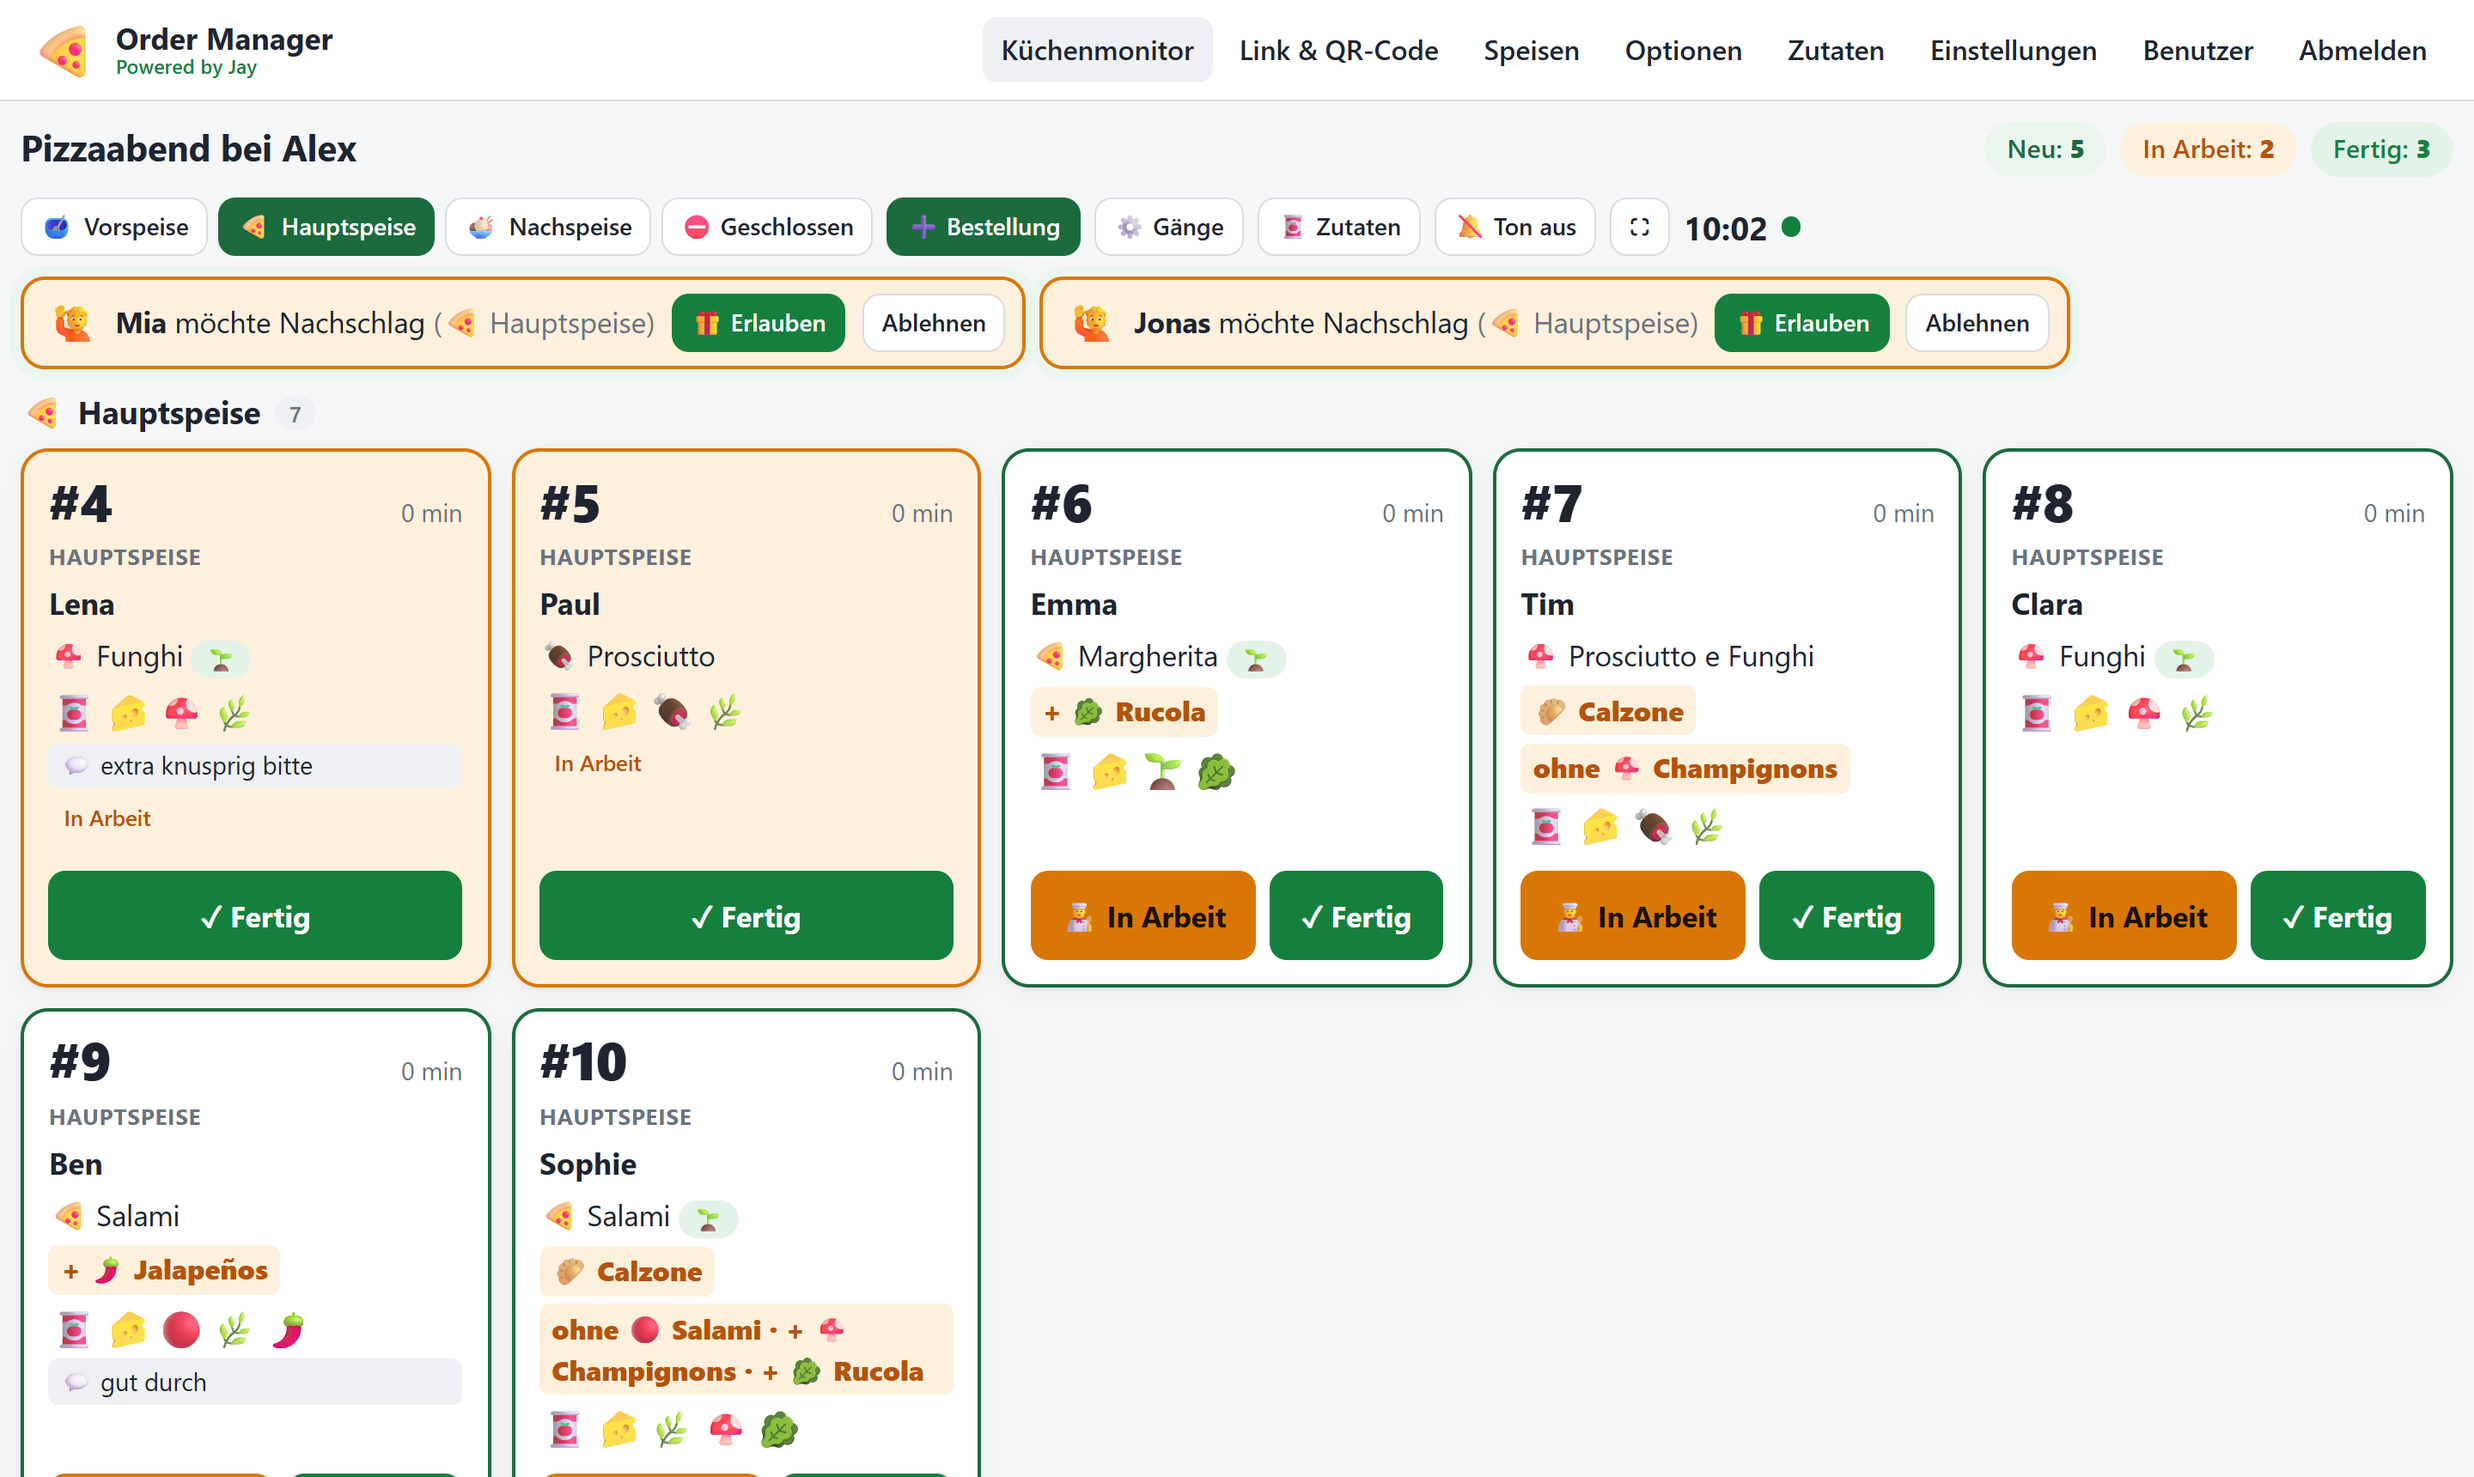
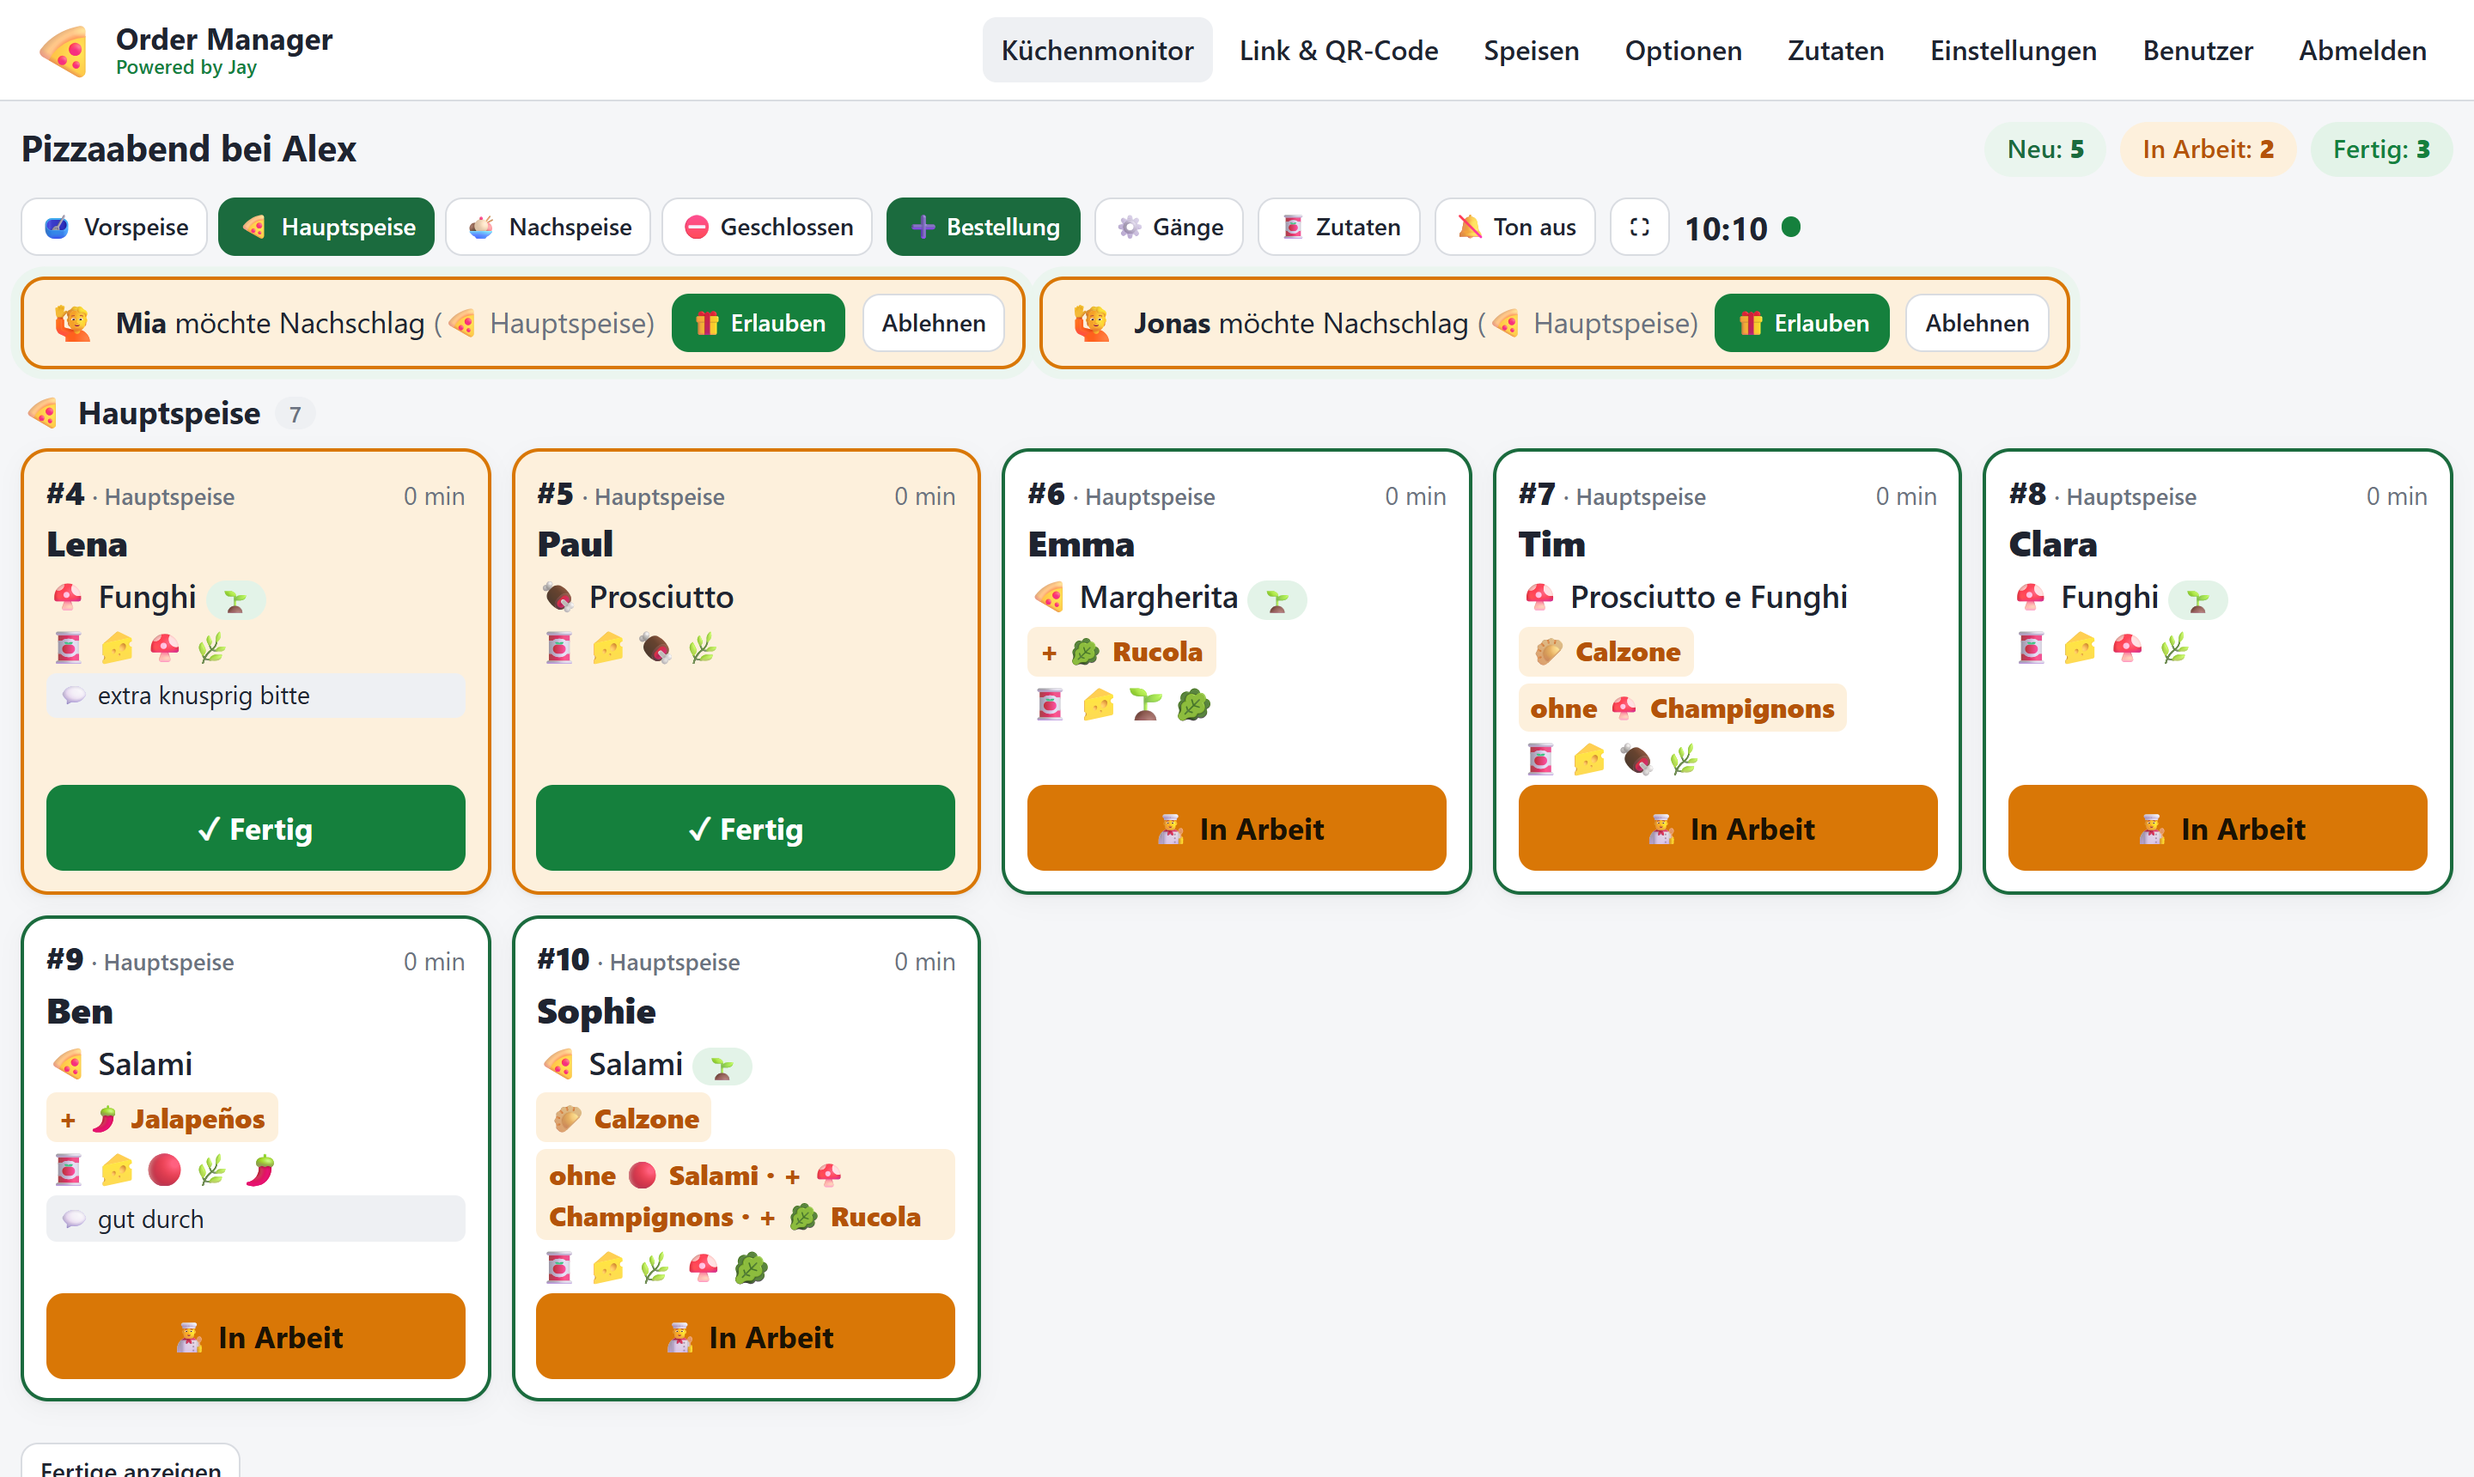
feat: kompaktere Küchen-Kacheln mit einem Statusknopf
Nummer, Gang und Wartezeit in einer Kopfzeile; Name und Gericht größer.
Statt zwei Knöpfen einer an derselben Stelle: erst "In Arbeit", dann "Fertig".

diff --git a/app/static/js/kitchen.js b/app/static/js/kitchen.js
@@ -40,49 +40,45 @@
   function skipTileHtml(o, fresh) {
     return `
       <button type="button" class="tile tile-skip tile-${o.status}${fresh ? " fresh" : ""}" data-id="${o.id}">
-        <div class="tile-top">
-          <span class="tile-number">#${o.number}</span>
-          <span class="tile-age" data-created="${esc(o.created_at)}">${minutesSince(o.created_at)}</span>
-        </div>
+        ${tileTop(o)}
         <div class="tile-guest">${esc(o.guest || "Gast")}</div>
         <div class="tile-item"><span class="emoji">🚫</span> ${esc(o.item_name)}</div>
         ${isQuickDone(o) ? '<div class="tile-skip-hint">Antippen = erledigt</div>' : ""}
       </button>`;
   }
 
-  // Schnellknoepfe direkt auf der Kachel: ein Tipp statt Dialog
-  function quickActions(o) {
+  // Ein Schnellknopf an immer derselben Stelle: erst "In Arbeit", dann "Fertig"
+  function quickAction(o) {
     if (cfg.readOnly) return "";
     if (o.status === "new") {
-      return `<div class="tile-actions">
-        <button type="button" class="btn btn-warn" data-quick="in_progress">👨🍳 In Arbeit</button>
-        <button type="button" class="btn btn-ok" data-quick="done">✓ Fertig</button>
-      </div>`;
+      return '<button type="button" class="btn btn-warn tile-action" data-quick="in_progress">👨🍳 In Arbeit</button>';
     }
     if (o.status === "in_progress") {
-      return `<div class="tile-actions"><button type="button" class="btn btn-ok" data-quick="done">✓ Fertig</button></div>`;
+      return '<button type="button" class="btn btn-ok tile-action" data-quick="done">✓ Fertig</button>';
     }
     return "";
   }
+
+  // Kopfzeile: Nummer, Gang (falls mehrere) und Wartezeit kompakt in einer Zeile
+  const tileTop = (o) => `
+    <div class="tile-top">
+      <span><span class="tile-number">#${o.number}</span>${showCourse() ? ` <span class="tile-course">· ${esc(o.course_label)}</span>` : ""}</span>
+      <span class="tile-age" data-created="${esc(o.created_at)}">${minutesSince(o.created_at)}</span>
+    </div>`;
 
   function tileHtml(o, fresh) {
     if (o.is_skip) return skipTileHtml(o, fresh);
     const icons = o.ingredients.map((i) => i.icon).filter(Boolean).join("");
     return `
       <div role="button" tabindex="0" class="tile tile-${o.status}${fresh ? " fresh" : ""}" data-id="${o.id}">
-        <div class="tile-top">
-          <span class="tile-number">#${o.number}</span>
-          <span class="tile-age" data-created="${esc(o.created_at)}">${minutesSince(o.created_at)}</span>
-        </div>
-        ${showCourse() ? `<div class="tile-course">${esc(o.course_label)}</div>` : ""}
+        ${tileTop(o)}
         <div class="tile-guest">${esc(o.guest || "Gast")}${o.guest_extra_orders ? ` <span title="Nachschlag freigegeben">🎁${o.guest_extra_orders > 1 ? o.guest_extra_orders : ""}</span>` : ""}</div>
         <div class="tile-item"><span class="emoji">${esc(o.item_icon)}</span> ${esc(o.item_name)}${o.vegetarian ? ' <span class="badge badge-veg">🌱</span>' : ""}</div>
         ${optionsText(o) ? `<div class="tile-options">${esc(optionsText(o))}</div>` : ""}
         ${changesText(o) ? `<div class="tile-options">${esc(changesText(o))}</div>` : ""}
         <div class="tile-icons emoji">${esc(icons)}</div>
         ${o.note ? `<div class="tile-note">💬 ${esc(o.note)}</div>` : ""}
-        ${o.status === "in_progress" ? '<span class="tile-status badge badge-warn">In Arbeit</span>' : ""}
-        ${quickActions(o)}
+        ${quickAction(o)}
       </div>`;
   }
 

diff --git a/app/static/css/app.css b/app/static/css/app.css
@@ -266,7 +266,7 @@ body.is-fullscreen .site-header { display: none; }
 .tile {
   position: relative; text-align: left; font: inherit; color: var(--text);
   background: var(--surface); border: 2px solid var(--border); border-radius: 16px;
-  padding: .85rem .9rem; cursor: pointer; min-height: 150px; display: flex; flex-direction: column; gap: .3rem;
+  padding: .6rem .8rem .7rem; cursor: pointer; display: flex; flex-direction: column; gap: .25rem;
   box-shadow: var(--shadow); touch-action: manipulation; -webkit-tap-highlight-color: transparent;
 }
 .tile:active { transform: scale(.98); }
@@ -275,16 +275,16 @@ body.is-fullscreen .site-header { display: none; }
 .tile-in_progress { background: var(--warn-soft); border-color: var(--warn-strong); }
 .tile-done { background: var(--ok-soft); border-color: var(--ok); opacity: .8; }
 .tile-cancelled { opacity: .45; text-decoration: line-through; }
-.tile-skip { min-height: 110px; border-style: dashed; }
+.tile-skip { border-style: dashed; }
 .tile-skip.tile-new { background: var(--surface-2); }
 .tile-skip-hint { margin-top: auto; color: var(--muted); font-size: .85rem; font-weight: 600; }
-.tile-top { display: flex; justify-content: space-between; align-items: baseline; gap: .5rem; }
-.tile-number { font-size: 1.9rem; font-weight: 800; line-height: 1; }
+.tile-top { display: flex; justify-content: space-between; align-items: baseline; gap: .5rem; color: var(--muted); }
+.tile-number { font-size: 1.15rem; font-weight: 800; color: var(--text); }
 .tile-age { color: var(--muted); font-size: .9rem; font-variant-numeric: tabular-nums; }
-.tile-course { font-size: .8rem; font-weight: 700; text-transform: uppercase; letter-spacing: .04em; color: var(--muted); }
-.tile-guest { font-weight: 700; font-size: 1.1rem; overflow: hidden; text-overflow: ellipsis; white-space: nowrap; }
-.tile-item { font-size: 1.05rem; }
-.tile-icons { font-size: 1.35rem; letter-spacing: .1rem; line-height: 1.3; }
+.tile-course { font-size: .85rem; font-weight: 600; }
+.tile-guest { font-weight: 800; font-size: 1.3rem; line-height: 1.2; overflow: hidden; text-overflow: ellipsis; white-space: nowrap; }
+.tile-item { font-size: 1.15rem; font-weight: 600; }
+.tile-icons { font-size: 1.2rem; letter-spacing: .1rem; line-height: 1.2; }
 .tile-options, .modal-options {
   font-weight: 800; color: var(--warn); background: var(--warn-soft);
   border-radius: 6px; padding: .15rem .45rem; align-self: flex-start;
@@ -300,11 +300,9 @@ body.is-fullscreen .site-header { display: none; }
 }
 .extra-request .emoji { font-size: 1.4rem; }
 .extra-request-text { font-size: 1.05rem; }
-.tile-status { align-self: flex-start; }
 /* Schnellknoepfe: gross genug fuer nasse/mehlige Finger */
-.tile-actions { margin-top: auto; padding-top: .5rem; display: grid; grid-auto-flow: column; grid-auto-columns: 1fr; gap: .5rem; }
-.tile-actions .btn { min-height: 52px; font-size: 1.05rem; font-weight: 700; justify-content: center; }
-.tile:has(.tile-actions .btn:active) { transform: none; }
+.tile-action { margin-top: auto; min-height: 50px; font-size: 1.1rem; font-weight: 700; justify-content: center; width: 100%; }
+.tile:has(.tile-action:active) { transform: none; }
 /* Einrichtungs-Dialog */
 .setup-choices { display: grid; gap: .5rem; margin: .75rem 0; }
 .setup-choice > span { min-height: 60px; font-size: 1.1rem; font-weight: 600; }

diff --git a/app/templates/base.html b/app/templates/base.html
@@ -13,7 +13,7 @@
   <meta name="apple-mobile-web-app-capable" content="yes">
   <meta name="apple-mobile-web-app-status-bar-style" content="black-translucent">
   <meta name="apple-mobile-web-app-title" content="Bestellungen">
-  <link rel="stylesheet" href="/static/css/app.css?v=17">
+  <link rel="stylesheet" href="/static/css/app.css?v=18">
   <script src="/static/js/app.js?v=2" defer></script>
   {% block head %}{% endblock %}
 </head>

diff --git a/app/templates/guest/guest_base.html b/app/templates/guest/guest_base.html
@@ -11,7 +11,7 @@
   <meta name="theme-color" content="#1b6b3e">
   <meta name="apple-mobile-web-app-capable" content="yes">
   <meta name="apple-mobile-web-app-title" content="Bestellung">
-  <link rel="stylesheet" href="/static/css/app.css?v=17">
+  <link rel="stylesheet" href="/static/css/app.css?v=18">
 </head>
 <body class="guest">
   <header class="guest-header">

diff --git a/app/templates/kitchen.html b/app/templates/kitchen.html
@@ -212,5 +212,5 @@
       readOnly: {{ 'false' if is_today else 'true' }}
     };
   </script>
-  {% if event %}<script src="/static/js/kitchen.js?v=15"></script>{% endif %}
+  {% if event %}<script src="/static/js/kitchen.js?v=16"></script>{% endif %}
 {% endblock %}
